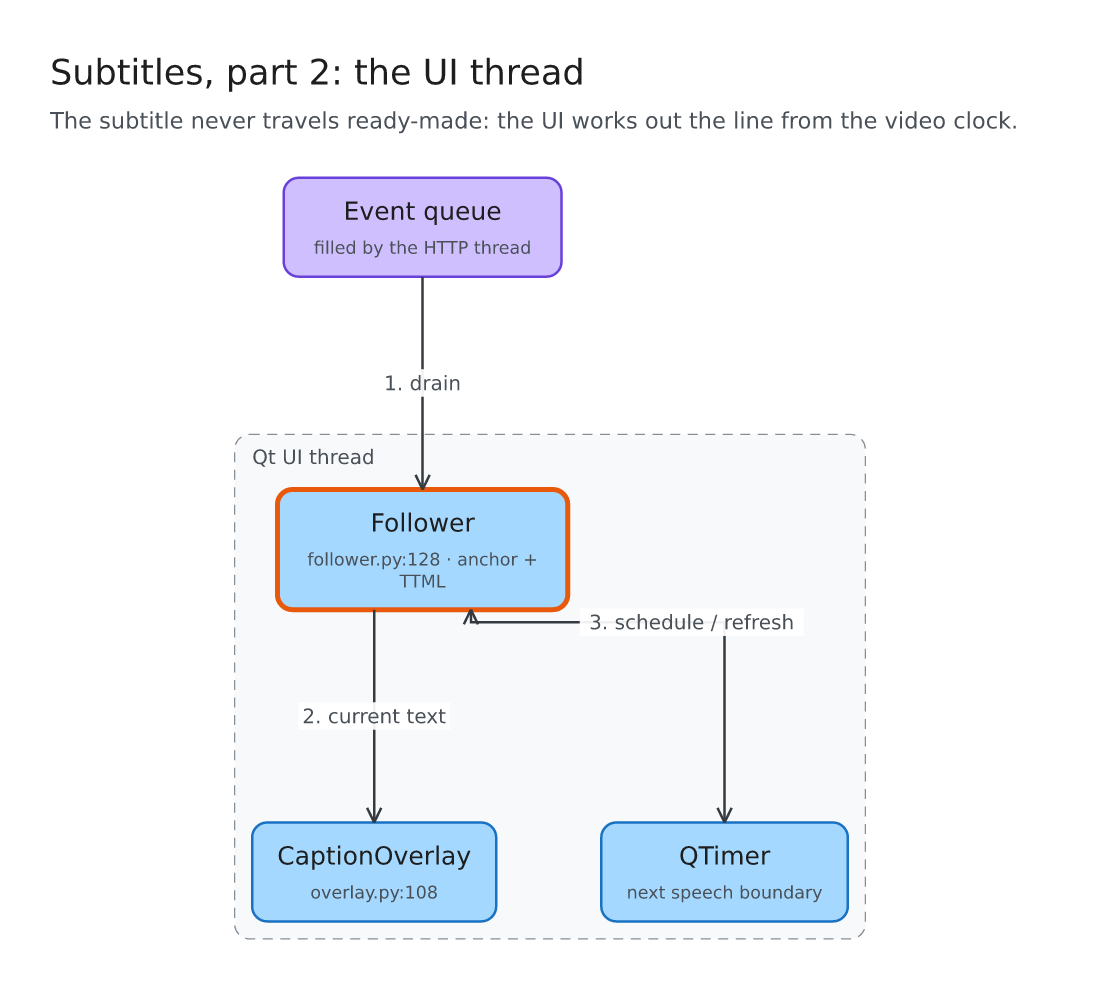
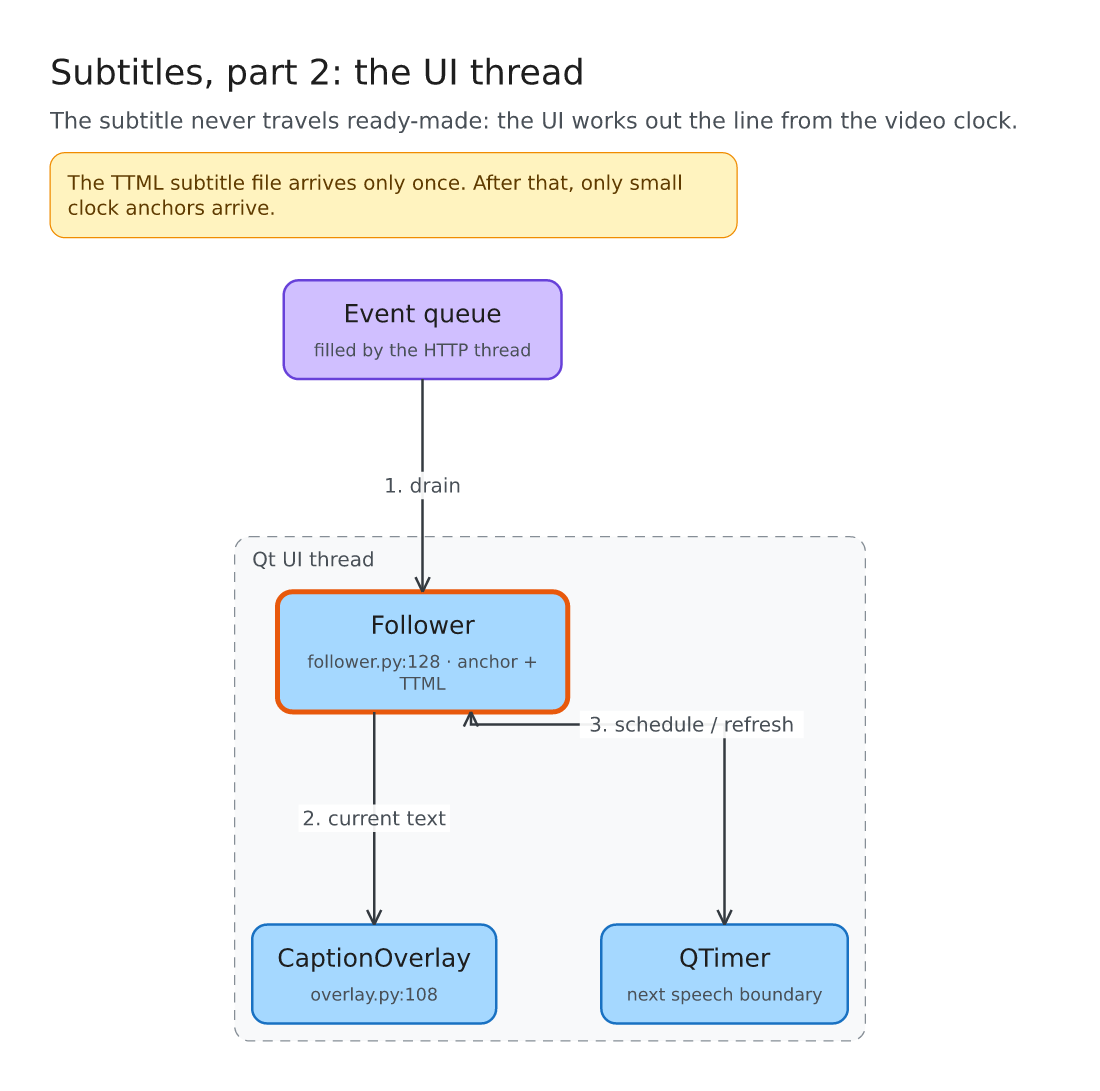
feat: add optional insight note to the diagram
A yellow note under the header for the non-obvious fact that the arrows do not
show (for example 'the subtitle file arrives once, then only clock anchors').
Documented in SKILL.md; used in the subtitles part-2 example.

diff --git a/skills/code-sketch/SKILL.md b/skills/code-sketch/SKILL.md
@@ -27,6 +27,7 @@ You never write Excalidraw JSON by hand. You write a tiny **spec** (nodes, edges
 {
   "title": "Short title",
   "takeaway": "One sentence: the thing to remember.",
+  "insight": "Optional: a non-obvious fact the arrows do not show.",
   "direction": "auto",
   "numbered": true,
   "groups": [{ "id": "g1", "label": "GameSession.cs" }],
@@ -39,6 +40,7 @@ You never write Excalidraw JSON by hand. You write a tiny **spec** (nodes, edges
 
 | Field | Notes |
 |---|---|
+| `takeaway` / `insight` | `takeaway` answers the question in one grey line under the title. `insight` is optional and goes in a yellow note in the picture: use it for what the arrows *cannot* show or even suggest the opposite of ("the subtitle file arrives once; afterwards only clock anchors travel"). If the arrows already tell the story, skip it. |
 | `direction` | `auto` (default): tries several layouts and keeps the most compact one that fits. A plain chain becomes a "snake" (rows alternating direction). Leave it on auto unless you have a reason; `LR` / `TB` force one. |
 | `numbered` | `true` (default) prefixes arrow labels `1.`, `2.`… in edge order: use for execution/data flow, so the edge order **is** the story. Set `false` for static structure. |
 | `kind` | `entry` (green: where it starts), `process` (blue, default), `data` (purple: state/DB/config/object), `module` (teal: another module/assembly/package of this same project), `external` (grey dashed: outside this codebase: engine, API, user), `decision` (yellow diamond: a branch the reader must notice). |
@@ -50,7 +52,7 @@ Edge order matters when `numbered` is on: list edges in the order things happen.
 
 ## Keeping it small (the guardrails)
 
-The script enforces: ≤ 12 nodes, ≤ 14 arrows, ≤ 4 groups, ≤ 3 arrows leaving one node, ≤ 2 crossings, labels ≤ 28 chars, arrow labels ≤ 28, `sub` ≤ 56, `title` ≤ 60, `takeaway` ≤ 120, canvas ≤ 2200 px. These limits are the point, not an obstacle: past that, the picture stops being understood at a glance. When you hit one, shrink with these moves, in this order:
+The script enforces: ≤ 12 nodes, ≤ 14 arrows, ≤ 4 groups, ≤ 3 arrows leaving one node, ≤ 2 crossings, labels ≤ 28 chars, arrow labels ≤ 28, `sub` ≤ 56, `title` ≤ 60, `takeaway` ≤ 120, `insight` ≤ 150, at most 2 forks/loops combined, canvas ≤ 2200 px. These limits are the point, not an obstacle: past that, the picture stops being understood at a glance. When you hit one, shrink with these moves, in this order:
 
 1. **Narrow the question.** One diagram answers one question. A big topic becomes an *overview* (one node per module, ≤ 8) plus separate *zoom-in* diagrams for the parts the reader asks about. Offer the zoom-ins instead of cramming them in.
 2. **Collapse.** Merge helpers into one node and list them in `sub` ("ArcSlash, Orbit, Aura…"). A data lookup that is just a step belongs in the `sub` of the node that does it, not in its own node + arrow.
